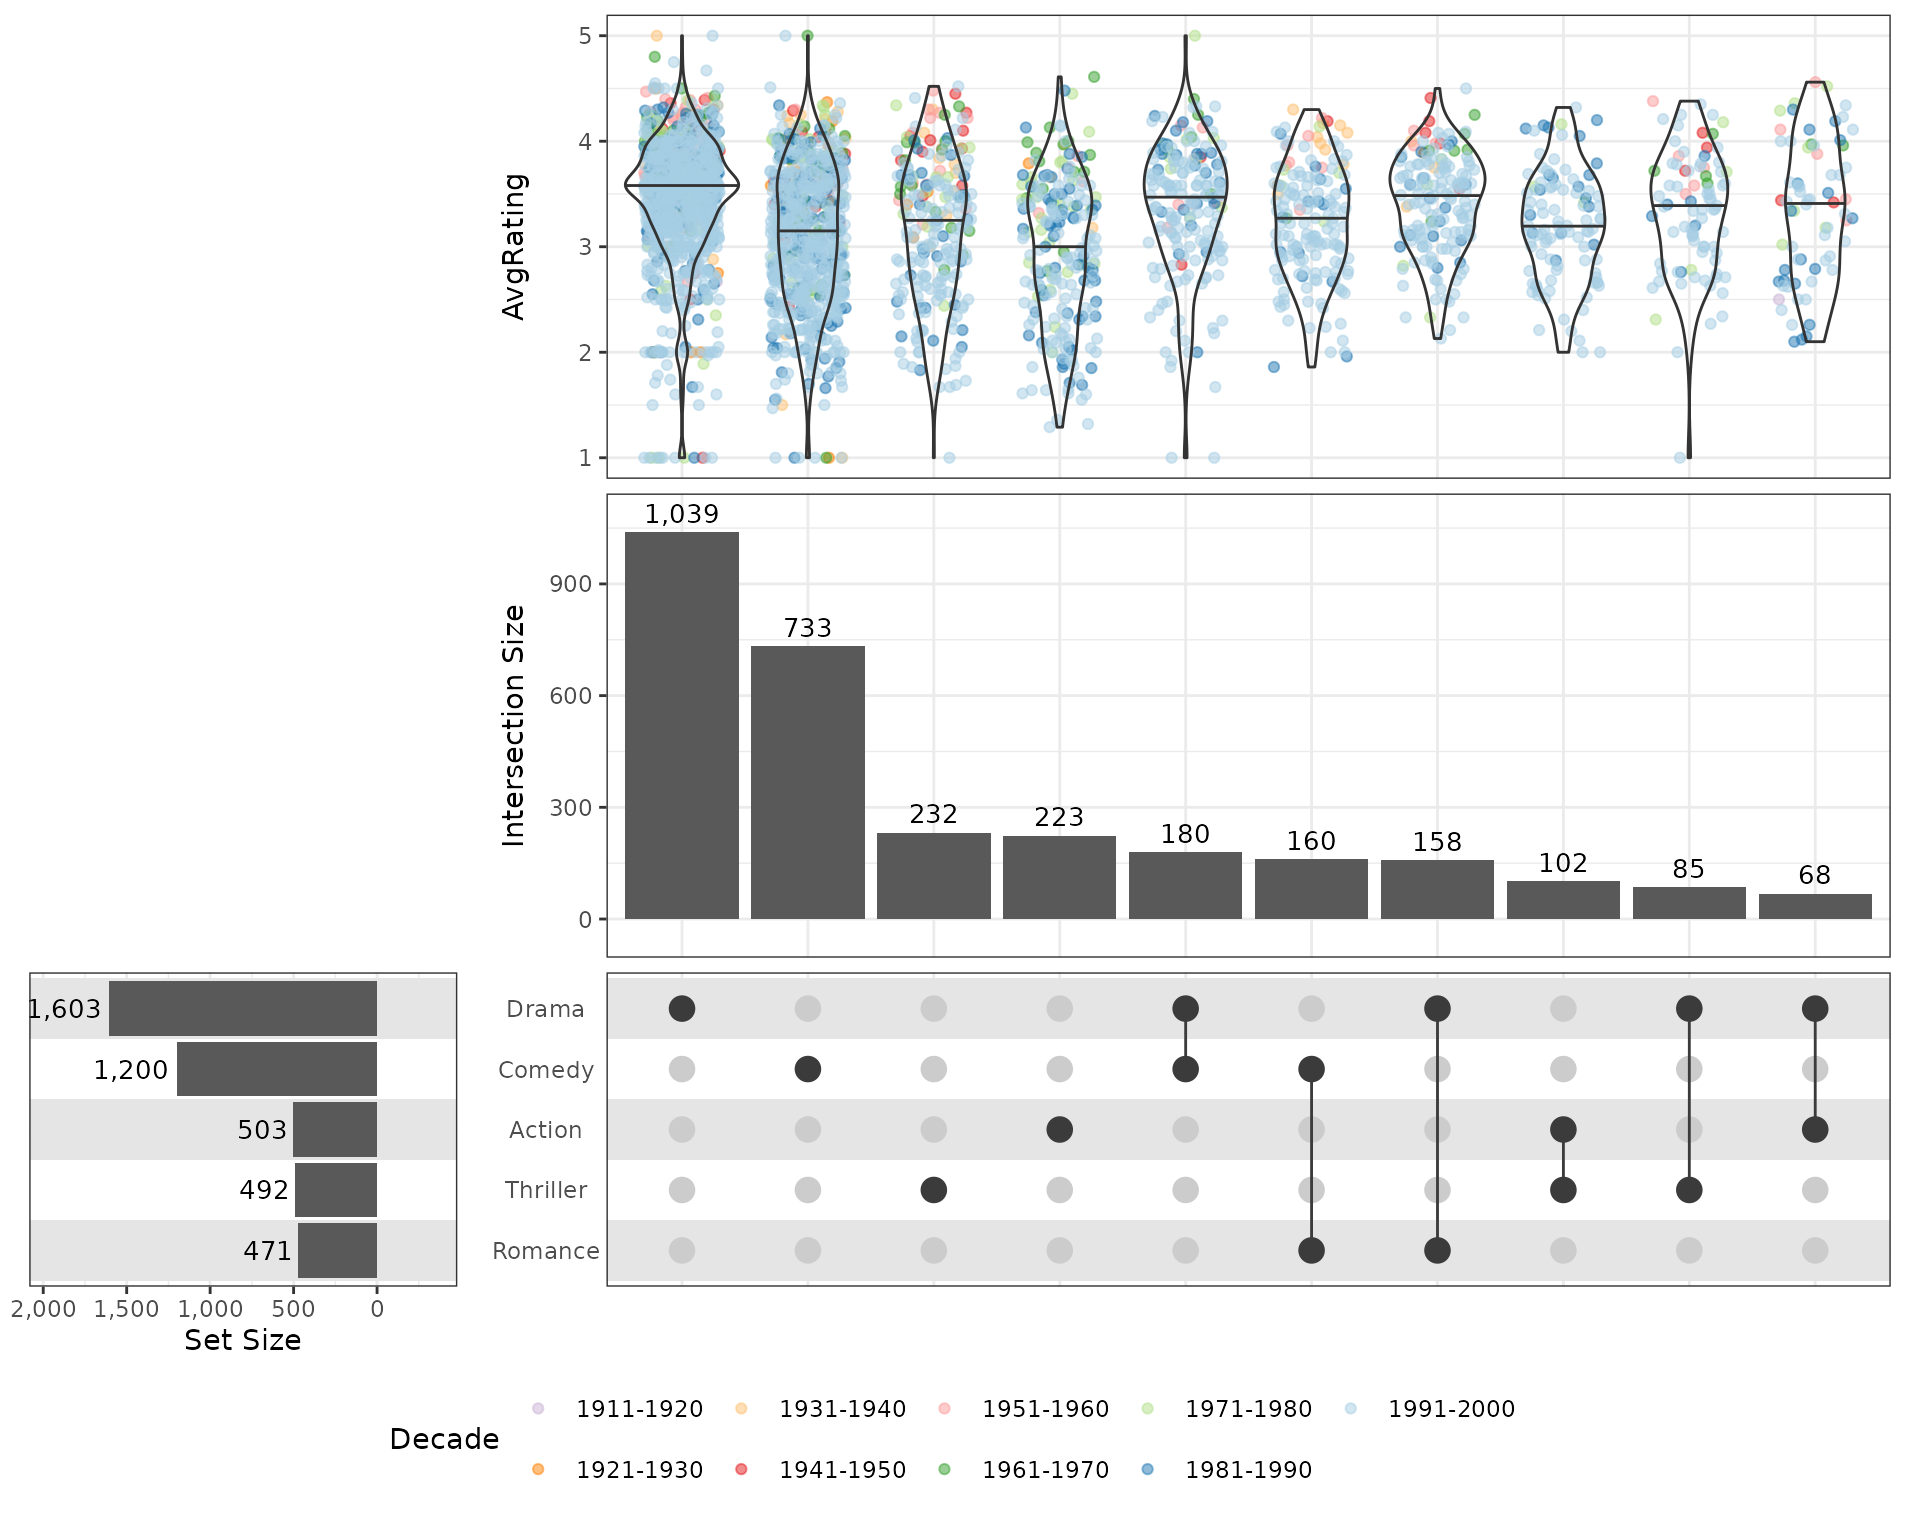
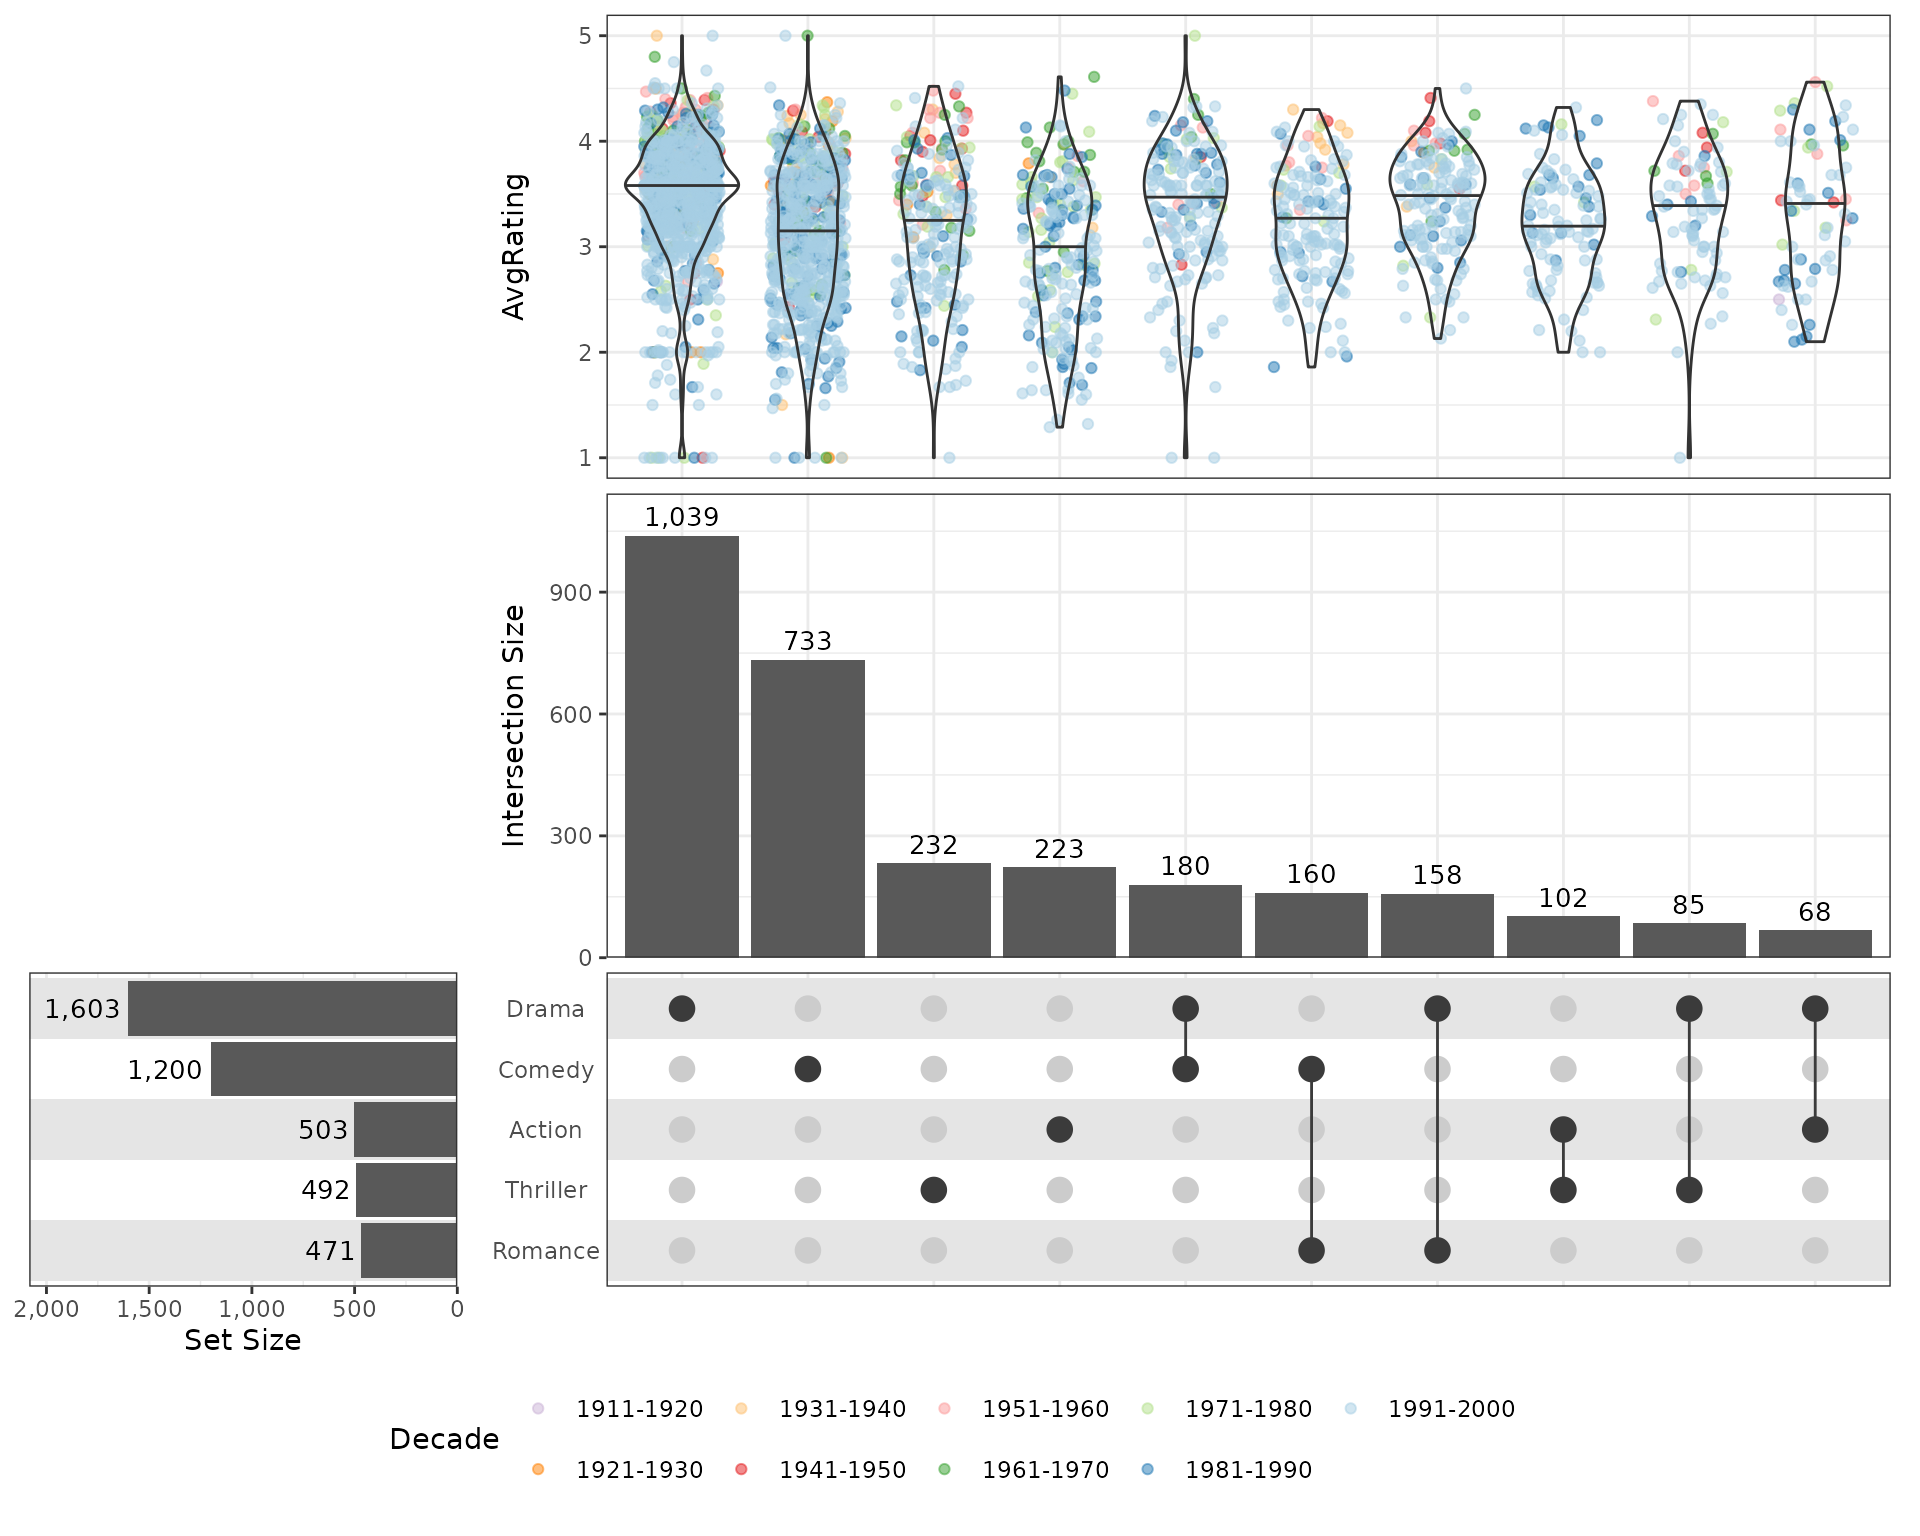
Built site for SimpleUpset@0.1.3: 3cfa0e4

diff --git a/articles/introduction.html b/articles/introduction.html
@@ -279,8 +279,8 @@ argument.</p>
 <code class="sourceCode R"><span><span class="co">## Add a simple boxplot</span></span>
 <span><span class="fu"><a href="../reference/simpleUpSet.html">simpleUpSet</a></span><span class="op">(</span></span>
 <span>  <span class="va">movies</span>, <span class="va">sets</span>, n_intersect <span class="op">=</span> <span class="fl">10</span>,</span>
-<span>  set_layers <span class="op">=</span> <span class="fu"><a href="../reference/default-layers.html">default_set_layers</a></span><span class="op">(</span>expand <span class="op">=</span> <span class="fl">0.3</span><span class="op">)</span>,</span>
-<span>  intersect_layers <span class="op">=</span> <span class="fu"><a href="../reference/default-layers.html">default_intersect_layers</a></span><span class="op">(</span>expand <span class="op">=</span> <span class="fl">0.1</span><span class="op">)</span>,</span>
+<span>  set_layers <span class="op">=</span> <span class="fu"><a href="../reference/default-layers.html">default_set_layers</a></span><span class="op">(</span>expand <span class="op">=</span> <span class="fu"><a href="https://rdrr.io/r/base/c.html" class="external-link">c</a></span><span class="op">(</span><span class="fl">0.3</span>, <span class="fl">0</span><span class="op">)</span><span class="op">)</span>,</span>
+<span>  intersect_layers <span class="op">=</span> <span class="fu"><a href="../reference/default-layers.html">default_intersect_layers</a></span><span class="op">(</span>expand <span class="op">=</span> <span class="fu"><a href="https://rdrr.io/r/base/c.html" class="external-link">c</a></span><span class="op">(</span><span class="fl">0</span>, <span class="fl">0.1</span><span class="op">)</span><span class="op">)</span>,</span>
 <span>  annotations <span class="op">=</span> <span class="fu"><a href="https://rdrr.io/r/base/list.html" class="external-link">list</a></span><span class="op">(</span><span class="fu"><a href="https://ggplot2.tidyverse.org/reference/geom_boxplot.html" class="external-link">geom_boxplot</a></span><span class="op">(</span><span class="fu"><a href="https://ggplot2.tidyverse.org/reference/aes.html" class="external-link">aes</a></span><span class="op">(</span>y <span class="op">=</span> <span class="va">AvgRating</span><span class="op">)</span><span class="op">)</span><span class="op">)</span>,</span>
 <span><span class="op">)</span></span></code></pre></div>
 <p><img src="introduction_files/figure-html/upset-boxplot-1.png" width="960"></p>
@@ -290,8 +290,8 @@ as useful for communication with readers.</p>
 <div class="sourceCode" id="cb9"><pre class="downlit sourceCode r">
 <code class="sourceCode R"><span><span class="fu"><a href="../reference/simpleUpSet.html">simpleUpSet</a></span><span class="op">(</span></span>
 <span>  <span class="va">movies</span>, <span class="va">sets</span>, n_intersect <span class="op">=</span> <span class="fl">10</span>,</span>
-<span>  set_layers <span class="op">=</span> <span class="fu"><a href="../reference/default-layers.html">default_set_layers</a></span><span class="op">(</span>expand <span class="op">=</span> <span class="fl">0.3</span><span class="op">)</span>,</span>
-<span>  intersect_layers <span class="op">=</span> <span class="fu"><a href="../reference/default-layers.html">default_intersect_layers</a></span><span class="op">(</span>expand <span class="op">=</span> <span class="fl">0.1</span><span class="op">)</span>,</span>
+<span>  set_layers <span class="op">=</span> <span class="fu"><a href="../reference/default-layers.html">default_set_layers</a></span><span class="op">(</span>expand <span class="op">=</span> <span class="fu"><a href="https://rdrr.io/r/base/c.html" class="external-link">c</a></span><span class="op">(</span><span class="fl">0.3</span>, <span class="fl">0</span><span class="op">)</span><span class="op">)</span>,</span>
+<span>  intersect_layers <span class="op">=</span> <span class="fu"><a href="../reference/default-layers.html">default_intersect_layers</a></span><span class="op">(</span>expand <span class="op">=</span> <span class="fu"><a href="https://rdrr.io/r/base/c.html" class="external-link">c</a></span><span class="op">(</span><span class="fl">0</span>, <span class="fl">0.1</span><span class="op">)</span><span class="op">)</span>,</span>
 <span>  annotations <span class="op">=</span> <span class="fu"><a href="https://rdrr.io/r/base/list.html" class="external-link">list</a></span><span class="op">(</span></span>
 <span>    <span class="fu"><a href="https://rdrr.io/r/base/list.html" class="external-link">list</a></span><span class="op">(</span></span>
 <span>      <span class="fu"><a href="https://ggplot2.tidyverse.org/reference/aes.html" class="external-link">aes</a></span><span class="op">(</span>y <span class="op">=</span> <span class="va">AvgRating</span><span class="op">)</span>,</span>
@@ -328,12 +328,12 @@ as useful for communication with readers.</p>
 <em>ggplot2(v.4.0.0)</em> and <em>tidyverse(v.2.0.0)</em></p>
 <p><strong>loaded via a namespace (and not attached):</strong>
 <em>sass(v.0.4.10)</em>, <em>generics(v.0.1.4)</em>,
-<em>stringi(v.1.8.7)</em>, <em>hms(v.1.1.3)</em>,
+<em>stringi(v.1.8.7)</em>, <em>hms(v.1.1.4)</em>,
 <em>digest(v.0.6.37)</em>, <em>magrittr(v.2.0.4)</em>,
 <em>evaluate(v.1.0.5)</em>, <em>grid(v.4.5.1)</em>,
 <em>timechange(v.0.3.0)</em>, <em>RColorBrewer(v.1.1-3)</em>,
 <em>fastmap(v.1.2.0)</em>, <em>jsonlite(v.2.0.0)</em>,
-<em>scales(v.1.4.0)</em>, <em>textshaping(v.1.0.3)</em>,
+<em>scales(v.1.4.0)</em>, <em>textshaping(v.1.0.4)</em>,
 <em>jquerylib(v.0.1.4)</em>, <em>cli(v.3.6.5)</em>,
 <em>crayon(v.1.5.3)</em>, <em>rlang(v.1.1.6)</em>,
 <em>bit64(v.4.6.0-1)</em>, <em>withr(v.3.0.2)</em>,

diff --git a/index.html b/index.html
@@ -78,7 +78,7 @@
       </header><div class="row">
   <div class="contents col-md-9">
 <div class="section level1">
-<div class="page-header"><h1 id="simpleupset">SimpleUpSet<a class="anchor" aria-label="anchor" href="#simpleupset"></a>
+<div class="page-header"><h1 id="simpleupset-">SimpleUpSet <img id="simpleupset_logo" alt="SimpleUpset Logo" src="reference/figures/SimpleUpset.png" align="right" width="125"><a class="anchor" aria-label="anchor" href="#simpleupset-"></a>
 </h1></div>
 <!-- badges: start -->
 
@@ -91,6 +91,7 @@
     <div class="links">
 <h2 data-toc-skip>Links</h2>
 <ul class="list-unstyled">
+<li><a href="https://cloud.r-project.org/package=SimpleUpset" class="external-link">View on CRAN</a></li>
 <li><a href="https://github.com/smped/SimpleUpset/" class="external-link">Browse source code</a></li>
 <li><a href="https://github.com/smped/SimpleUpset/issues" class="external-link">Report a bug</a></li>
 </ul>

diff --git a/news/index.html b/news/index.html
@@ -58,7 +58,7 @@
     </div>
 
     <div class="section level2">
-<h2 class="page-header" data-toc-text="0.1.3" id="simpleupset-013">SimpleUpset 0.1.3<a class="anchor" aria-label="anchor" href="#simpleupset-013"></a></h2>
+<h2 class="page-header" data-toc-text="0.1.3" id="simpleupset-013">SimpleUpset 0.1.3<small>2025-10-22</small><a class="anchor" aria-label="anchor" href="#simpleupset-013"></a></h2>
 <ul><li>Added ‘ascending’, ‘descending’ or ‘none’ as options for sorting sets</li>
 </ul></div>
     <div class="section level2">
